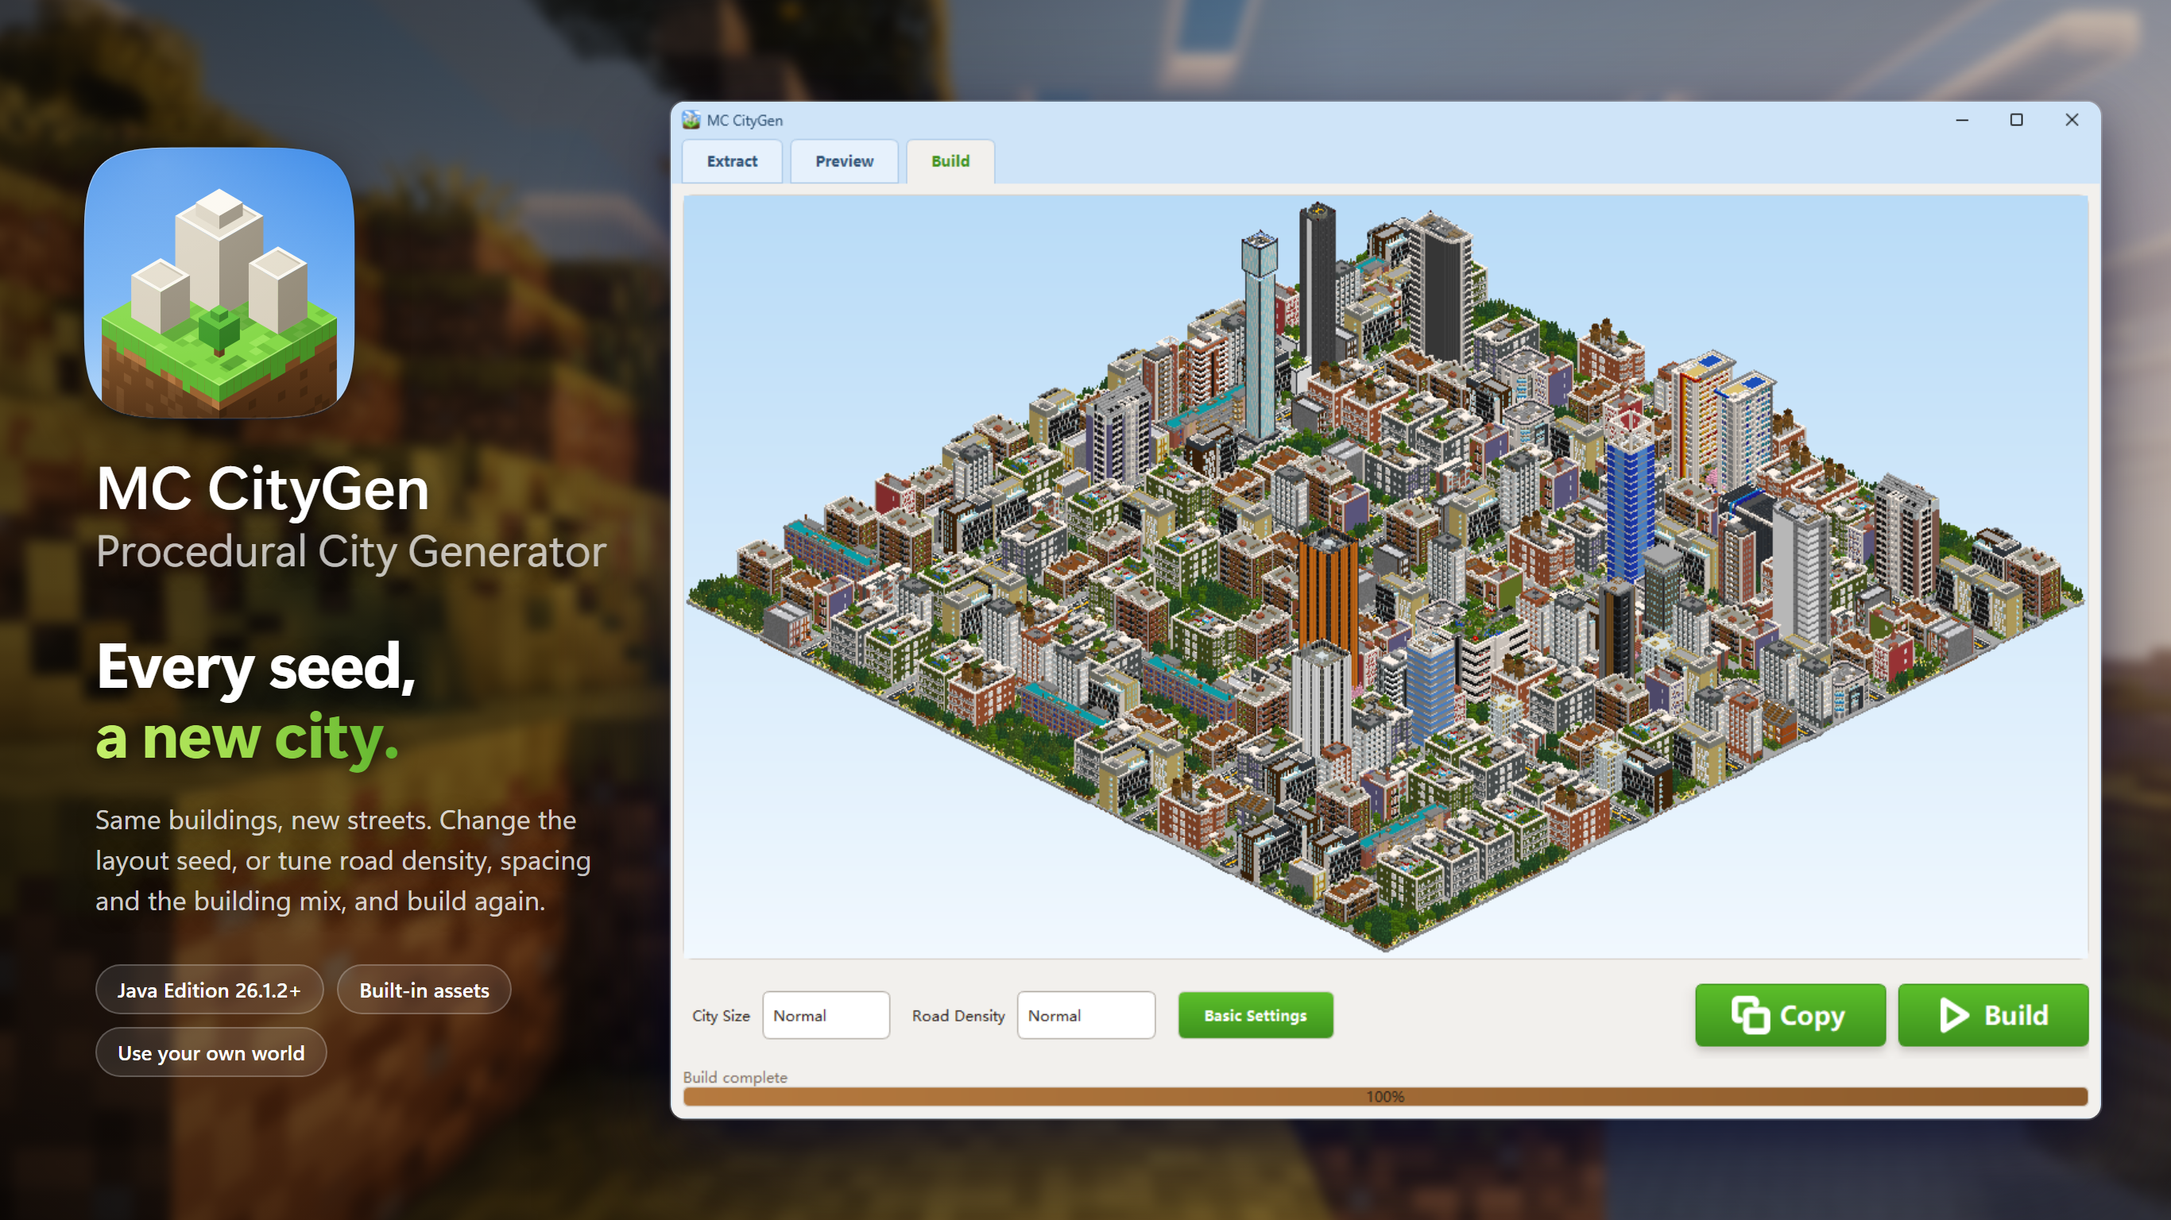
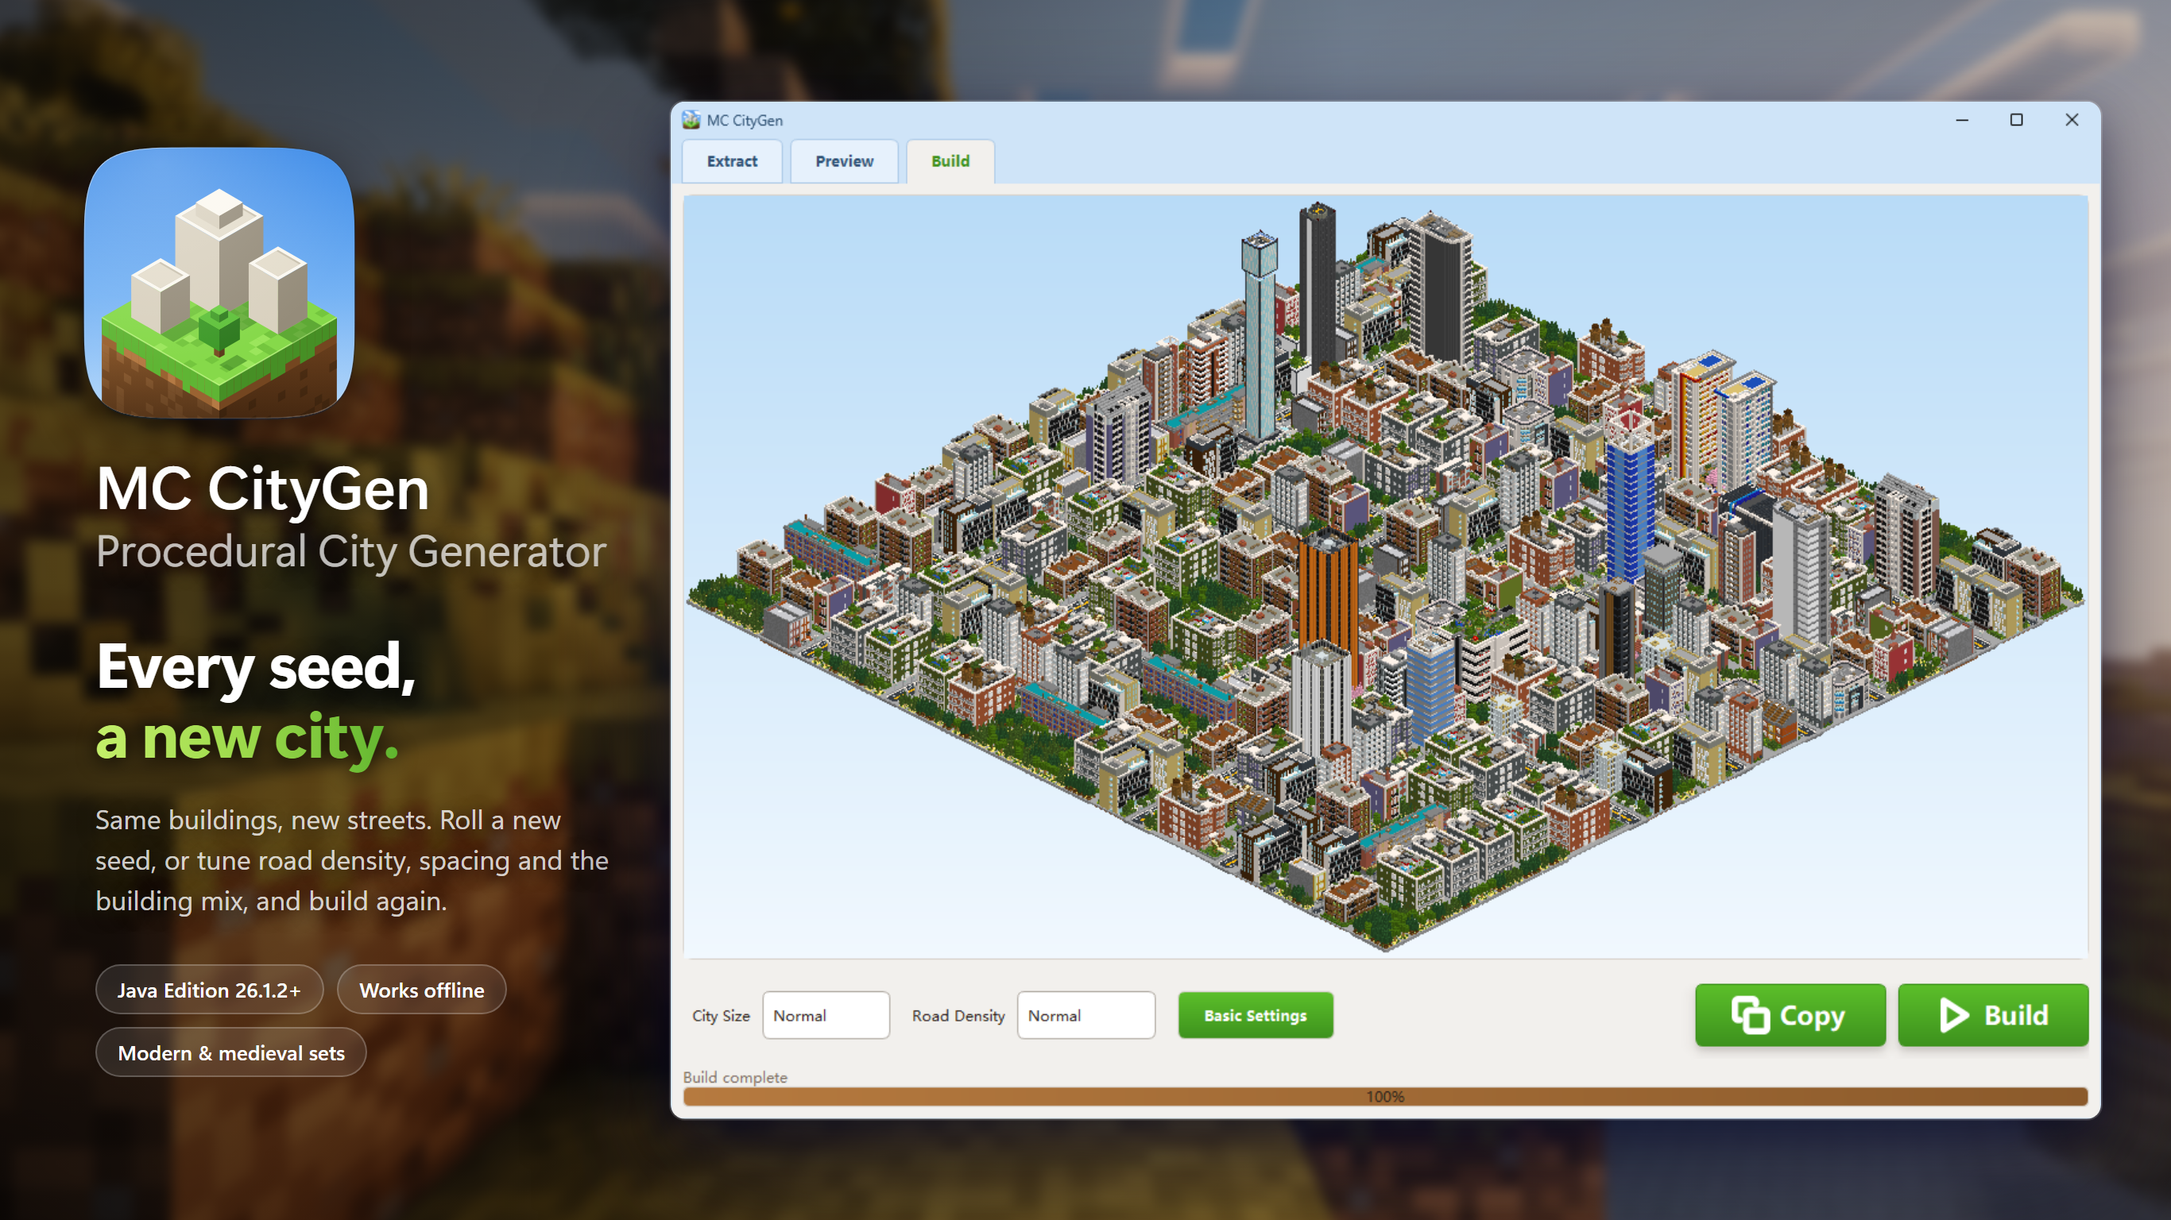
Store listing: lead with the player's need; privacy policy as plain text
LISTING.md follows Partner Center's order (Properties, Store listings,
Submission options) and pastes the privacy policy as text. Description,
features and short description name the need first, with the player as
the subject. Certification notes name the Copy button as the app does.
PRIVACY.md drops Markdown and states each edition's data folder as
path.py resolves it. Screenshot captions and pills reworded; pills now
cover requirement, offline and scope.

Changed region(s): [[0.0311, 0.6562, 0.28, 0.75], [0.0622, 0.8438, 0.1556, 0.875], [0.1867, 0.7812, 0.2178, 0.8438]]

diff --git a/store/shots.html b/store/shots.html
@@ -45,26 +45,26 @@
 <script>
   // One entry per shot: its headline (the accent in the grass gradient), text and the capture of the app's
   // window. LISTING.md makes the same claims in words; change both together.
-  const FACTS = ["Java Edition 26.1.2+", "Built-in assets", "Use your own world"];   // the same on every shot
+  const FACTS = ["Java Edition 26.1.2+", "Works offline", "Modern & medieval sets"];   // the same on every shot: requirement, offline, scope
   const SHOTS = {
     promo: {
       title: 'A whole city from <span class="brand">the buildings you make.</span>',
-      text: "Mark up a few roads and buildings in your MC world. CityGen lays out the streets and fills them.",
+      text: "Mark up a few roads and buildings in your MC world, and get back streets, houses and landmarks, ready to play.",
       window: "../docs/pics/promo1.png",
     },
     styles: {
       title: 'Any style<br><span class="brand">you build.</span>',
-      text: "The city takes the look of the buildings you give it. This medieval town comes from the built-in medieval set.",
+      text: "Your city takes the look of the buildings you give it. This medieval town comes from the built-in medieval set.",
       window: "../docs/pics/promo3.png",
     },
     seeds: {
       title: 'Every seed,<br><span class="brand">a new city.</span>',
-      text: "Same buildings, new streets. Change the layout seed, or tune road density, spacing and the building mix, and build again.",
+      text: "Same buildings, new streets. Roll a new seed, or tune road density, spacing and the building mix, and build again.",
       window: "../docs/pics/promo2.png",
     },
     size: {
       title: 'From a village<br><span class="brand">to a metropolis.</span>',
-      text: "Five city sizes, from Very Small to Very Big. Preview the roads and the layout before you build.",
+      text: "Pick one of five city sizes, and preview the roads and the layout before you build.",
       window: "../docs/pics/promo4.png",
     },
   };

diff --git a/store/LISTING.md b/store/LISTING.md
@@ -1,76 +1,108 @@
-# Microsoft Store listing — English (United States)
+# Microsoft Store listing — MC CityGen
 
-Everything to paste into Partner Center → MC CityGen → Store listing, in the page's order, then the other fields the
-submission asks for. Images are in [listing/](listing/), rendered by `python store/render.py`.
+Everything to paste into Partner Center for MC CityGen, in the submission's order: Properties, Store listings
+(English (United States)), Submission options. Pricing and availability, Age ratings and Packages are filled in
+Partner Center directly. Images are in [listing/](listing/), rendered by `python store/render.py`.
 
 The app and its listing call the game "MC": Mojang's usage guidelines don't allow its name in a product's name,
 and the Store has turned down submissions that used it. The name only appears where the guidelines ask for it: the
 disclaimer at the end of the description and the trademark credit. The app's name is the one reserved in Partner
 Center (`MSIX_DISPLAY_NAME` in [build_windows_release.py](../packaging/build_windows_release.py)).
 
-## Description
+## Properties
+
+- **Category:** Utilities & tools. **Subcategory:** none.
+- **Privacy policy:** paste the whole of [PRIVACY.md](PRIVACY.md) as it is; it is plain text written for the box.
+- **Website:**
+
+  ```
+  https://github.com/chengmarc/minecraft-citygen
+  ```
+
+- **Support contact info:**
+
+  ```
+  https://github.com/chengmarc/minecraft-citygen/issues
+  ```
+
+- **System requirements:** check Mouse under Minimum hardware (areas are chosen on a map). Leave every other row
+  unchecked and empty.
+- **Product declarations:** none apply. Leave "This product has been tested to meet accessibility guidelines"
+  unchecked unless it has been.
+
+## Store listings — English (United States)
+
+### Description
 
 ```
-Build a whole MC city from a handful of buildings.
+Want a whole MC city, without placing every building by hand?
 
-MC CityGen takes the roads and buildings you mark up in your own MC world and grows them into a complete city: an avenue and street network, houses along every block, and landmarks spaced through it. The finished city comes out as a world you can open in MC and as a .schem schematic for your own world.
+Build a handful of buildings in your own MC world, mark each one with three blocks, and get back a complete city in their style: avenues and streets, houses along every block, and landmarks spaced through it. Open it as a ready-to-play world, or take the .schem schematic into a world of your own.
 
-How it works
-• Extract: point it at an MC world and choose the road, house and landmark areas on its map.
-• Preview: see the road network and the building layout before anything is built.
-• Build: get the schematic, a rendered picture of the city, and a playable world.
+Make your first city right away
+• Two hand-built asset sets, modern and medieval, come with the app, so your first city needs no building at all.
+• A sample world is ready to go: Extract, Preview, Build.
 
-Your buildings, your style
-Mark a building with a gold block and a diamond block at opposite corners, and an emerald block at ground level. Stack three marked pieces and the building grows taller or shorter to fit the city. Modern towers, medieval walls: the city takes the look of whatever you build.
+Bring your own buildings
+• Mark a building with a gold block and a diamond block at opposite corners, and an emerald block at ground level.
+• Stack three marked pieces, and your tower grows taller or shorter to fit the city.
+• Modern towers, medieval walls: the city takes the look of whatever you build.
 
-Ready to use
-A modern and a medieval asset set, built by hand block by block, come with the app, so you can make a city before you build anything.
+See it before you build it
+• Preview the road network and the building layout, and build only when you like what you see.
+• Every build gives you a rendered picture of the whole city.
 
-Tune the city
-City size, road density, avenue and street spacing, turns and T-junctions, house style variety and landmark spacing. A seed makes any city again.
+Make it yours
+• Five city sizes, from a village to a metropolis.
+• Tune road density, avenue and street spacing, turns and T-junctions, and the building mix.
+• Roll a new seed for a new city, or keep a seed to make the same city again.
 
-Works offline. No account, no ads, no tracking.
+Nothing to sign up for
+• Works offline. No account, no ads, no tracking.
+• Open source under the Apache 2.0 license.
 
-Requirements
-• Windows 10 or 11, 64-bit
-• MC: Java Edition 26.1.2 or later, to play the cities it makes
-
-MC CityGen is open source under the Apache 2.0 license.
+Requirements and limits
+• Windows 10 or 11, 64-bit.
+• MC: Java Edition 26.1.2 or later, to play the cities it makes. You don't need it to run the app.
+• Your buildings must face south.
 
 NOT AN OFFICIAL MINECRAFT PRODUCT. NOT APPROVED BY OR ASSOCIATED WITH MOJANG OR MICROSOFT.
 ```
 
-## What's new in this version
+### What's new in this version
 
 Leave blank: this is the first submission.
 
-## Product features
+### Product features
 
-One per line in Partner Center ("Add more" for each):
+One per line in Partner Center ("Add more" for each). Each finishes "With this app, you can …":
 
 ```
-Grows a whole city from the buildings you make
-Avenues, streets, houses and landmarks, laid out for you
-Preview the roads and buildings before you build
-Exports a playable world and a .schem schematic
-A rendered picture of every city
-Mark up your own buildings with three blocks: gold, diamond, emerald
-Stackable buildings that grow to fit the city
-Hand-built modern and medieval asset sets included
-Tune size, road density, spacing, turns and building mix
-Works offline: no account, no ads, no tracking
-Open source (Apache 2.0)
+Grow a whole city from a handful of buildings you make
+Get avenues, streets, houses and landmarks laid out for you
+Start right away with hand-built modern and medieval asset sets
+Use your own buildings, marked with three blocks: gold, diamond and emerald
+Have stacked buildings grow taller or shorter to fit the city
+Preview the roads and the building layout before you build
+Play your city as a ready-to-open world, or take it anywhere as a .schem schematic
+See a rendered picture of every city you build
+Pick a city size, from a village to a metropolis
+Tune road density, street spacing, turns and the building mix
+Make the same city again from its seed, or roll a new one
+Work offline, with no account, no ads and no tracking
+Read and change the code: open source under Apache 2.0
 ```
 
-## Screenshots
+### Screenshots
 
-Upload in this order (the first is shown first):
+Upload in this order (the first is shown first). Each is the app's Build tab with a finished city:
 
-1. `listing/screenshot-1-promo.png`: the app with a finished modern city
-2. `listing/screenshot-2-seeds.png`: the app with another modern city
-3. `listing/screenshot-3-styles.png`: the app with a medieval town
-4. `listing/screenshot-4-size.png`: the app with a small medieval town
-## Store logos
+1. `listing/screenshot-1-promo.png`: a whole modern city from the buildings you make
+2. `listing/screenshot-2-seeds.png`: the same buildings, a new city from a new seed
+3. `listing/screenshot-3-styles.png`: a medieval town, the city taking your buildings' style
+4. `listing/screenshot-4-size.png`: a small town, from village to metropolis
+
+### Store logos
 
 | Slot | File |
 |---|---|
@@ -79,64 +111,62 @@ Upload in this order (the first is shown first):
 | 1:1 App tile icon (300 × 300) | `listing/store-logo-300.png` |
 | 150 × 150, 71 × 71 | Leave empty; the Store takes them from the package. |
 
-## Trailers, Xbox images
+### Trailers, Xbox images
 
 Leave empty.
 
-## Supplemental fields
+### Supplemental fields
 
-- **Short title:** leave empty.
+- **Short title:** leave empty; the name is short.
 - **Voice title:** leave empty.
 - **Short description** (270 characters or fewer):
 
   ```
-  Grow a whole MC city from a handful of buildings you mark up in your own world. Preview the roads and layout, then export a playable world and a .schem schematic. For MC: Java Edition 26.1.2+. Works offline.
+  Turn a handful of buildings from your MC world into a whole city: streets, houses and landmarks in your style, or start with the built-in modern and medieval sets. Play it as a world or export a .schem. For Java Edition 26.1.2+. Works offline.
   ```
 
-## Additional information
+### Additional information
 
 - **Keywords** (up to 7, 40 characters each, 21 words in all):
 
   ```
   city generator
-  MC city
   procedural city
-  schematic
-  Java Edition
-  world generator
   city builder
+  schematic generator
+  world generator
+  medieval town
+  Java Edition
   ```
 
-- **Additional system requirements** (each line one item, 200 characters each):
-
-  Minimum hardware:
+- **Additional system requirements** (each line one item, 200 characters each), under Minimum hardware:
 
   ```
   MC: Java Edition 26.1.2 or later, to open the worlds it makes. Not needed to run the app.
   ```
 
-- **Copyright and trademark info:** `© 2026 chengmarc. Minecraft is a trademark of Mojang Synergies AB.`
-- **Additional license terms:** `Apache License 2.0: https://github.com/chengmarc/minecraft-citygen/blob/main/LICENSE`
-- **Developed by:** `chengmarc`
+- **Copyright and trademark info:**
 
-## Properties
+  ```
+  © 2026 chengmarc. Minecraft is a trademark of Mojang Synergies AB.
+  ```
 
-- **Category:** Utilities & tools. **Subcategory:** none.
-- **Privacy policy URL:** `https://github.com/chengmarc/minecraft-citygen/blob/main/store/PRIVACY.md`
-- **Website:** `https://github.com/chengmarc/minecraft-citygen`
-- **Support contact info:** `https://github.com/chengmarc/minecraft-citygen/issues`
-- **System requirements:** check Mouse under Minimum hardware (areas are chosen on a map). Leave every other row
-  unchecked and empty.
-- **Product declarations:** none apply. Leave "This product has been tested to meet accessibility guidelines"
-  unchecked unless it has been.
+- **Additional license terms:**
 
-## Age ratings
+  ```
+  Apache License 2.0: https://github.com/chengmarc/minecraft-citygen/blob/main/LICENSE
+  ```
 
-In the questionnaire, none of the parts apply: the app has no user-to-user communication, no generated text, no
-purchases, no location sharing and no network access.
+- **Developed by:**
+
+  ```
+  chengmarc
+  ```
 
 ## Submission options
 
+- **Publishing hold options:** publish as soon as it passes certification, unless a release is being timed for a
+  weekend or a game update, when MC players are most active.
 - **Restricted capabilities → runFullTrust:**
 
   ```
@@ -146,5 +176,5 @@ purchases, no location sharing and no network access.
 - **Notes for certification:**
 
   ```
-  No account, sign-in, internet connection or MC install is needed. The app comes with a sample world already selected, with its road, house and landmark areas chosen. Click Extract and wait for it to finish, then the Preview tab's Preview button, then the Build tab's Build button. Build shows a rendered picture of the finished city; Copy World opens the folder with the exported world.
+  No account, sign-in, internet connection or MC install is needed. The app opens with a sample world already selected, with its road, house and landmark areas chosen. On the Extract tab, click Extract and wait for it to finish. On the Preview tab, click Preview to see the road network and building layout. On the Build tab, click Build: it shows a rendered picture of the finished city. Copy then opens the folder with the exported world.
   ```

diff --git a/store/PRIVACY.md b/store/PRIVACY.md
@@ -1,35 +1,33 @@
-# Privacy Policy
+MC CityGen Privacy Policy
+Last updated: October 15, 2026
 
-**MC CityGen**
-Last updated: October 14, 2026
+This policy covers MC CityGen everywhere it ships: the Microsoft Store edition, the Windows installer, the portable build, and running from source.
 
-This policy covers MC CityGen on every platform it ships on, including the Microsoft Store edition, the Windows installer, the portable build, and running from source.
+Summary
 
-## Summary
+MC CityGen does not collect, store, send or share any personal information. It works entirely on your computer and never connects to the internet.
 
-CityGen does not collect, store, send, or share any personal information. It works entirely on your computer and never connects to the internet.
+What the App Does With Data
 
-## What the app does with data
+• No network access. MC CityGen has no telemetry, analytics, crash reporting, advertising, accounts or update checks. It never sends data to the developer or to anyone else.
+• Local files only. The app reads the MC world folders you choose. It writes its outputs (generated worlds, schematics, previews), your saved settings, and a startup error log if one is needed, all on your computer:
+• Microsoft Store edition: %LOCALAPPDATA%\Packages\<package>\LocalCache\Local\MC CityGen\ (removed when you uninstall the app)
+• Windows installer and portable build: the app's own folder, or %LOCALAPPDATA%\MC CityGen\ if that folder can't be written to
+• Running from source: the source folder, or your user's application data folder
+• No personal information. None of these files contain personal information beyond what you put into them yourself, such as folder paths or world names.
 
-- **No network access.** CityGen has no telemetry, analytics, crash reporting, advertising, accounts, or update checks. It never sends data to the developer or to anyone else.
-- **Local files only.** The app reads the MC world folders you choose. It writes its outputs (generated worlds, schematics, previews), your saved settings, and a startup error log if one is needed. All of these stay in the app's data folder on your computer:
-  - Microsoft Store edition: `%LOCALAPPDATA%\Packages\<package>\LocalCache\Local\` (removed when you uninstall the app)
-  - Other Windows builds: `%LOCALAPPDATA%\` or the install folder
-  - macOS and Linux: your user's application data folder
-- **No personal information.** None of these files contain personal information beyond what you put into them yourself, such as file paths or world names.
+Third Parties
 
-## Third parties
+MC CityGen includes no third-party services that collect data. Microsoft may collect information about Store downloads and installs under the Microsoft Privacy Statement, https://privacy.microsoft.com/privacystatement, separately from MC CityGen.
 
-CityGen does not include any third-party services that collect data. Microsoft may collect information about Store downloads and installs under the [Microsoft Privacy Statement](https://privacy.microsoft.com/privacystatement). That collection is separate from CityGen.
+Children
 
-## Children
+MC CityGen does not knowingly collect information from anyone, including children under 13.
 
-CityGen does not knowingly collect information from anyone, including children under 13.
+Changes to This Policy
 
-## Changes
+If this policy changes, the new version will be published with the app's next update, and the "Last updated" date will change.
 
-If this policy changes, the new version will be posted at this address and the "Last updated" date will change.
+Contact
 
-## Contact
-
-Questions about this policy can go to the [project issue tracker](https://github.com/chengmarc/minecraft-citygen/issues).
+Questions about this policy can go to the project's issue tracker: https://github.com/chengmarc/minecraft-citygen/issues
